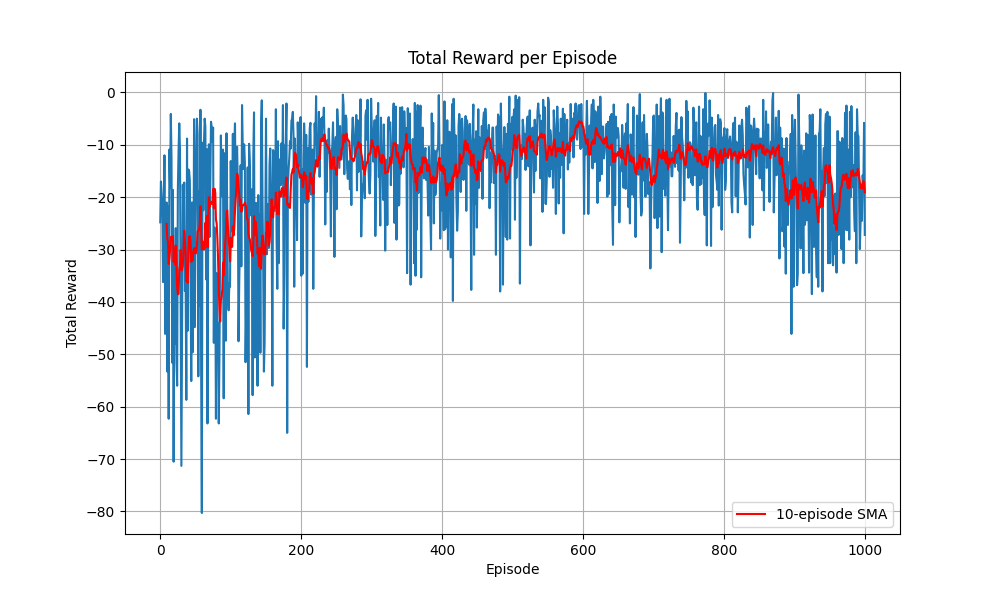
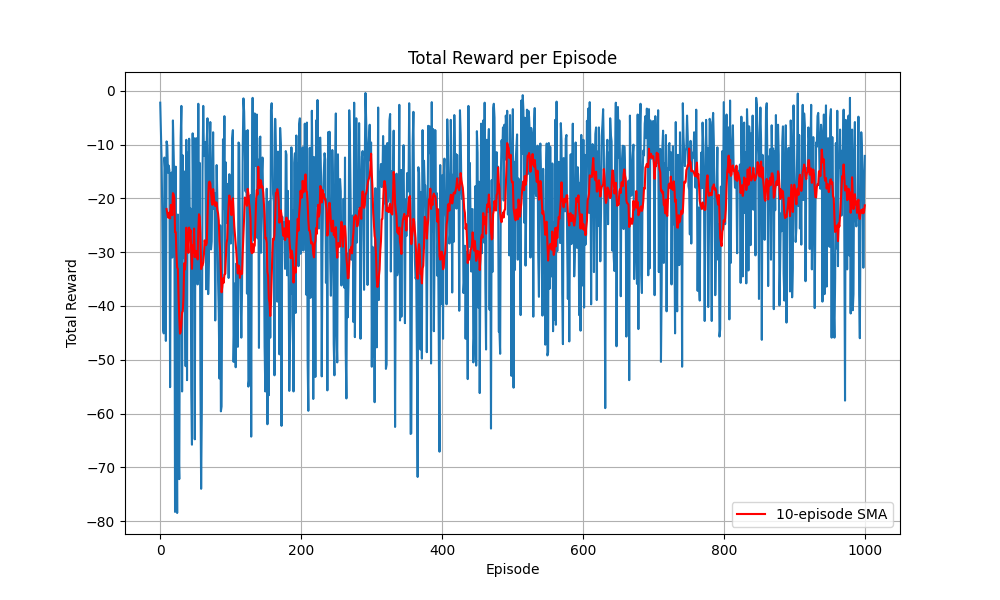
feat: Implement standard Q-learning forward update in QPAgent

diff --git a/qp_rl_project/qp_agent.py b/qp_rl_project/qp_agent.py
@@ -6,7 +6,8 @@ class QPAgent:
     def __init__(self, env, alpha=0.1, gamma=0.9, 
                  exploration_rate=1.0, exploration_decay=0.995, 
                  min_exploration_rate=0.01, q_init_val=0.0, 
-                 backward_epsilon=0.01):
+                 backward_epsilon=0.01, softmax_temp=1.0,
+                 p_backward_jump=0.1, min_trajectory_for_jump=2):
         """
         Quasi-Probability Reinforcement Learning Agent.
 
@@ -20,6 +21,10 @@ class QPAgent:
             q_init_val (float): Initial value for Q-table entries.
             backward_epsilon (float): The 'eps' in the backward update rule.
                                      abs(q[sp][ap]) will tend towards this value for past states.
+            softmax_temp (float): Temperature parameter for softmax action selection.
+                                  Higher temp = more randomness, Lower temp = more greedy.
+            p_backward_jump (float): Probability of attempting a backward jump during exploitation.
+            min_trajectory_for_jump (int): Minimum length of trajectory_history to consider a jump.
         """
         self.env = env
         self.alpha = alpha
@@ -29,6 +34,9 @@ class QPAgent:
         self.min_exploration_rate = min_exploration_rate
         self.q_init_val = q_init_val
         self.backward_epsilon = backward_epsilon
+        self.softmax_temp = softmax_temp
+        self.p_backward_jump = p_backward_jump
+        self.min_trajectory_for_jump = min_trajectory_for_jump
 
         # Q-table: stores q(s,a) which are real numbers.
         # Positive values might indicate "good future action".
@@ -56,29 +64,66 @@ class QPAgent:
             int: The action to take.
         """
         if random.random() < self.exploration_rate:
-            # Explore: choose a random action
+            # Explore: choose a random environment action
             return random.randrange(self.action_space_size)
         else:
-            # Exploit: choose the best action from Q-table
-            state_q_values = self.q_table[state]
-            if not state_q_values: # If no q-values for this state yet
-                return random.randrange(self.action_space_size)
-            
-            # Find the action(s) with the maximum Q-value
-            max_q = -float('inf')
-            best_actions = []
-            for action, q_value in state_q_values.items():
-                if q_value > max_q:
-                    max_q = q_value
-                    best_actions = [action]
-                elif q_value == max_q:
-                    best_actions.append(action)
-            
-            if not best_actions: # Should not happen if state_q_values is not empty
-                 return random.randrange(self.action_space_size)
-            return random.choice(best_actions) # Break ties randomly
+            # Exploit:
+            # With p_backward_jump, attempt a backward jump
+            if trajectory_history and \
+               len(trajectory_history) >= self.min_trajectory_for_jump and \
+               random.random() < self.p_backward_jump:
+                
+                candidate_jumps = [] # List of (past_state, q_value_of_past_s_a)
+                # Iterate up to the second to last entry, as the last entry is the current state's precursor
+                for i in range(len(trajectory_history) -1): 
+                    past_s, past_a, _ = trajectory_history[i]
+                    q_val_past_sa = self.q_table[past_s][past_a]
+                    
+                    # We are looking for past state-actions that are "plausible pasts".
+                    # The backward update drives q[sp][ap] towards -self.backward_epsilon.
+                    if q_val_past_sa < 0: # Consider only negative Q-values for past plausibility
+                        # Store the state `past_s` to jump to, and its "score"
+                        # Score: how close q_val_past_sa is to -self.backward_epsilon
+                        # Lower score (closer to 0 difference) is better.
+                        score = abs(q_val_past_sa - (-self.backward_epsilon))
+                        candidate_jumps.append({'state_to_jump_to': past_s, 'score': score, 'original_q': q_val_past_sa})
+                
+                if candidate_jumps:
+                    # Select the jump candidate with the best (lowest) score
+                    candidate_jumps.sort(key=lambda x: x['score'])
+                    best_jump_target_state = candidate_jumps[0]['state_to_jump_to']
+                    # print(f"DEBUG: Attempting jump to {best_jump_target_state} from history (score: {candidate_jumps[0]['score']:.3f}, q:{candidate_jumps[0]['original_q']:.3f})")
+                    return ("JUMP", best_jump_target_state)
 
-    def learn(self, s, a, r, s2, trajectory):
+            # If not jumping, or jump attempt failed, proceed with forward action selection (softmax)
+            state_q_values_dict = self.q_table[state]
+            if not state_q_values_dict: 
+                return random.randrange(self.action_space_size)
+
+            actions = list(state_q_values_dict.keys())
+            # Consider only non-negative Q-values for forward softmax, or all if none are non-negative?
+            # For now, use all Q-values for softmax as per "shift-softmax over positive+negative" idea.
+            # The "shift" is not yet implemented, so it's direct softmax.
+            q_values = np.array([state_q_values_dict[a] for a in actions])
+
+            if self.softmax_temp <= 0: # Avoid division by zero; behave greedily
+                max_q = np.max(q_values)
+                # Ensure actions is not empty before choice
+                best_actions = [actions[i] for i, q_val in enumerate(q_values) if q_val == max_q]
+                return random.choice(best_actions) if best_actions else random.randrange(self.action_space_size)
+
+
+            q_values_stable = q_values - np.max(q_values) 
+            exp_q_values = np.exp(q_values_stable / self.softmax_temp)
+            probs = exp_q_values / np.sum(exp_q_values)
+            
+            if np.isclose(np.sum(probs), 0.0) or not np.all(np.isfinite(probs)) or len(actions)==0:
+                return random.randrange(self.action_space_size)
+
+            chosen_action = random.choices(actions, weights=probs, k=1)[0]
+            return chosen_action
+
+    def learn(self, s, a, r, s2, done_s2, trajectory):
         """
         Updates the Q-table based on the transition and trajectory.
         Implements both forward (future) and backward (past) updates.
@@ -88,24 +133,27 @@ class QPAgent:
             a: Action taken.
             r: Reward received.
             s2: Next state.
+            done_s2 (bool): True if s2 is a terminal state, False otherwise.
             trajectory (list): History of (state, action, reward) tuples for the current episode.
                                Assumes `(s, a, r)` of the current transition has ALREADY been added.
         """
-        # Forward Update (Future) - based on readme: q[s][a] += alpha * (r - q[s][a])
-        # This is simpler than a full Q-learning update involving max_q(s2,a').
-        # It treats r as the target, somewhat like a contextual bandit.
+        # Forward Update (Future) - Standard Q-learning update
         current_q_sa = self.q_table[s][a]
-        self.q_table[s][a] = current_q_sa + self.alpha * (r - current_q_sa)
+        
+        max_next_q = 0.0
+        if not done_s2: # Only consider future rewards if s2 is not terminal
+            if self.q_table[s2]: # If s2 has been visited and has Q-values
+                max_next_q = max(self.q_table[s2].values())
+            # If s2 is new (not in q_table), max_next_q remains 0.0 (optimistic init or q_init_val if used)
+        
+        target_q_sa = r + self.gamma * max_next_q
+        self.q_table[s][a] = current_q_sa + self.alpha * (target_q_sa - current_q_sa)
 
-        # Backward Update (Past) - q[sp][ap] -= alpha * (abs(q[sp][ap]) - eps)
-        # This update applies to the state-action pair (sp, ap) that led to state s.
-        if len(trajectory) > 1: # Need at least two entries to get (sp, ap)
-            # trajectory[-1] is (s, a, r)
-            # trajectory[-2] is (sp, ap, rp)
+        # Backward Update (Past)
+        if len(trajectory) > 1: 
             sp, ap, _ = trajectory[-2] 
-            
             q_val_past = self.q_table[sp][ap]
-            self.q_table[sp][ap] = q_val_past - self.alpha * (abs(q_val_past) - self.backward_epsilon)
+            self.q_table[sp][ap] = q_val_past - self.alpha * (q_val_past + self.backward_epsilon)
 
     def decay_exploration_rate(self):
         """

diff --git a/qp_rl_project/train_qp_agent.py b/qp_rl_project/train_qp_agent.py
@@ -44,7 +44,10 @@ def main():
         "exploration_decay": 0.999, # Slower decay for more episodes
         "min_exploration_rate": 0.01,
         "q_init_val": 0.0,
-        "backward_epsilon": 0.01    # eps for backward update
+        "backward_epsilon": 0.01,   # eps for backward update
+        "softmax_temp": 0.5,        # Temperature for softmax action selection
+        "p_backward_jump": 0.1,     # Probability of attempting a backward jump
+        "min_trajectory_for_jump": 3 # Min trajectory length to consider a jump (e.g. S0->S1->S2, now at S2, can jump to S0)
     }
     agent = QPAgent(env, **agent_config)
 
@@ -59,17 +62,71 @@ def main():
         current_episode_trajectory = []
         state = env.reset()
         episode_reward = 0
+        num_jumps_this_episode = 0
         
-        for step in range(max_steps_per_episode):
-            action = agent.choose_action(state, current_episode_trajectory) # Pass trajectory (though not used by basic choose_action yet)
+        for step_num in range(max_steps_per_episode): # Renamed step to step_num to avoid conflict
+            action_or_jump_info = agent.choose_action(state, current_episode_trajectory)
             
-            next_state, reward, done, _ = env.step(action)
+            if isinstance(action_or_jump_info, tuple) and action_or_jump_info[0] == "JUMP":
+                _, jumped_to_state = action_or_jump_info
+                # print(f"Episode {episode+1}, Step {step_num+1}: Jumped from {state} to {jumped_to_state}")
+                state = jumped_to_state
+                num_jumps_this_episode += 1
+                
+                # Truncate trajectory: find the first occurrence of jumped_to_state and keep history up to that point.
+                # This means we are rewinding to the point *after* jumped_to_state was first experienced via an action.
+                # The state in trajectory is s, so we look for trajectory entries where s == jumped_to_state
+                # More accurately, we should find the index of the (s,a,r) tuple where s was jumped_to_state
+                # and the agent is now about to choose an action from jumped_to_state.
+                # So, the trajectory should reflect the path taken to reach jumped_to_state.
+                
+                # Find the index of the first time 'jumped_to_state' was the *resulting state* s2 of a transition (s,a,r) -> s2
+                # This is complex. A simpler trajectory management for now:
+                # Find the last index where jumped_to_state was the 's' component.
+                # This means we are rewinding to the point where an action was taken *from* jumped_to_state.
+                
+                # Simpler: Truncate trajectory to the point where jumped_to_state was the *start* of a recorded (s,a,r)
+                # This means we are rewinding as if we just arrived at jumped_to_state and are about to act from it.
+                # The history *leading to* jumped_to_state should be preserved.
+                
+                # Let's find the first index i where trajectory_history[i][0] == jumped_to_state
+                # This means we are rewinding to the first time we were *in* jumped_to_state and about to take an action.
+                # The trajectory should then be sliced up to, but not including, that point,
+                # as we are now *at* jumped_to_state, and the history is what led *before* it.
+                # This is still tricky.
+                
+                # Simplest for now: Truncate to the entry *before* the first time jumped_to_state was visited as 's'.
+                # Or, if jumped_to_state was s in trajectory[k] = (s,a,r), then new trajectory is trajectory[:k]
+                # This means the history is up to the point *before* we first acted from jumped_to_state.
+                
+                # Let's try this: find the first entry (s_hist, a_hist, r_hist) where s_hist == jumped_to_state.
+                # The new trajectory will be all entries *before* this one.
+                # This means we are truly rewinding to a point *before* we first acted from jumped_to_state.
+                
+                # If trajectory_history = [(s0,a0,r0), (s1,a1,r1), (s2,a2,r2)] and we jump to s1.
+                # New trajectory should be [(s0,a0,r0)]. State is s1.
+                
+                found_idx = -1
+                for idx, (s_hist, _, _) in enumerate(current_episode_trajectory):
+                    if s_hist == jumped_to_state:
+                        found_idx = idx
+                        break
+                if found_idx != -1:
+                    current_episode_trajectory = current_episode_trajectory[:found_idx]
+                # If jumped_to_state was the very first state (e.g. env.reset()), trajectory becomes empty.
+                
+                # No env.step(), no reward from env, no learning call for the jump itself.
+                # done status doesn't change by jump itself.
+                if done: # If already done and we jump, break (should not happen if goal is terminal)
+                    break 
+                continue # Continue to next step in the episode from the new state
+
+            # Standard forward action
+            action = action_or_jump_info
+            next_state, reward, done, _ = env.step(action) # 'done' here is for next_state
             
-            # Store transition info for learning
-            # The agent.learn method expects (s,a,r) of current transition to be in trajectory
             current_episode_trajectory.append((state, action, reward))
-            
-            agent.learn(state, action, reward, next_state, current_episode_trajectory)
+            agent.learn(state, action, reward, next_state, done, current_episode_trajectory) # Pass 'done' as done_s2
             
             episode_reward += reward
             state = next_state
@@ -81,7 +138,7 @@ def main():
         all_episode_rewards.append(episode_reward)
         
         if (episode + 1) % 100 == 0:
-            print(f"Episode {episode + 1}/{num_episodes} finished. Reward: {episode_reward:.2f}, Exploration Rate: {agent.exploration_rate:.3f}")
+            print(f"Episode {episode + 1}/{num_episodes} finished. Reward: {episode_reward:.2f}, Jumps: {num_jumps_this_episode}, Exp Rate: {agent.exploration_rate:.3f}")
             # Optional: Render the last state of an episode
             # print("Final state of episode:")
             # env.render()
